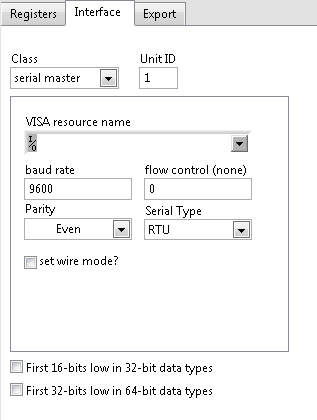
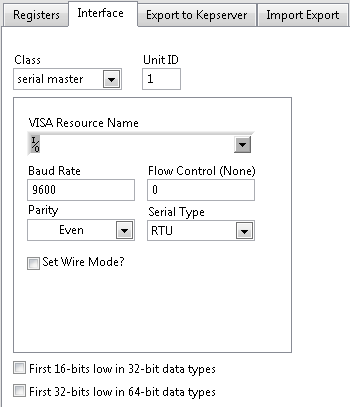
Update Readme and Update VIPB
Update README.md to reflect changes to editor and edited the VIPB to build in 2015.

Changed region(s): [[0.0, 0.0, 1.0, 1.0], [0.8233, 0.2359, 0.8517, 0.8845], [0.9085, 0.2359, 0.9369, 0.8256]]

diff --git a/README.md b/README.md
@@ -58,11 +58,19 @@ Select the VISA resource of the serial port connected to the Modbus network and 
 
 **Note:** To see the VISA resource names and settings of your devices, you can find them in the *Devices and Interfaces* pane of NI Measurement and Automation Explorer. This is useful when configuring your application on a different system than the one it will run on.
 
-## Export
+### Export to KEPServer
 
-![ExportConfig](Documentation/Images/ExportConfig.png)
+![ExportKepserverConfig](Documentation/Images/ExportKepserverConfig.png)
 
 **Export to KEPServer:** Export this configuration to a CSV file which can imported to KEPServer
+
+### Import Export
+
+![ImportExportConfig](Documentation/Images/ImportExportConfig.png)
+
+**Import:** Imports channel configuration table from CSV file.
+
+**Export:** Exports channel configuration table to CSV file.
 
 # Classified Errors
 
@@ -76,7 +84,7 @@ If you are using the Modbus module as a master, make sure that the modbus slaves
 
 ### Software Requirements
 
-+   LabVIEW 2014 or later
++   LabVIEW 2015 or later
 +   NI Modbus Library 1.2.1.42 or later
 
 ### Limitations
